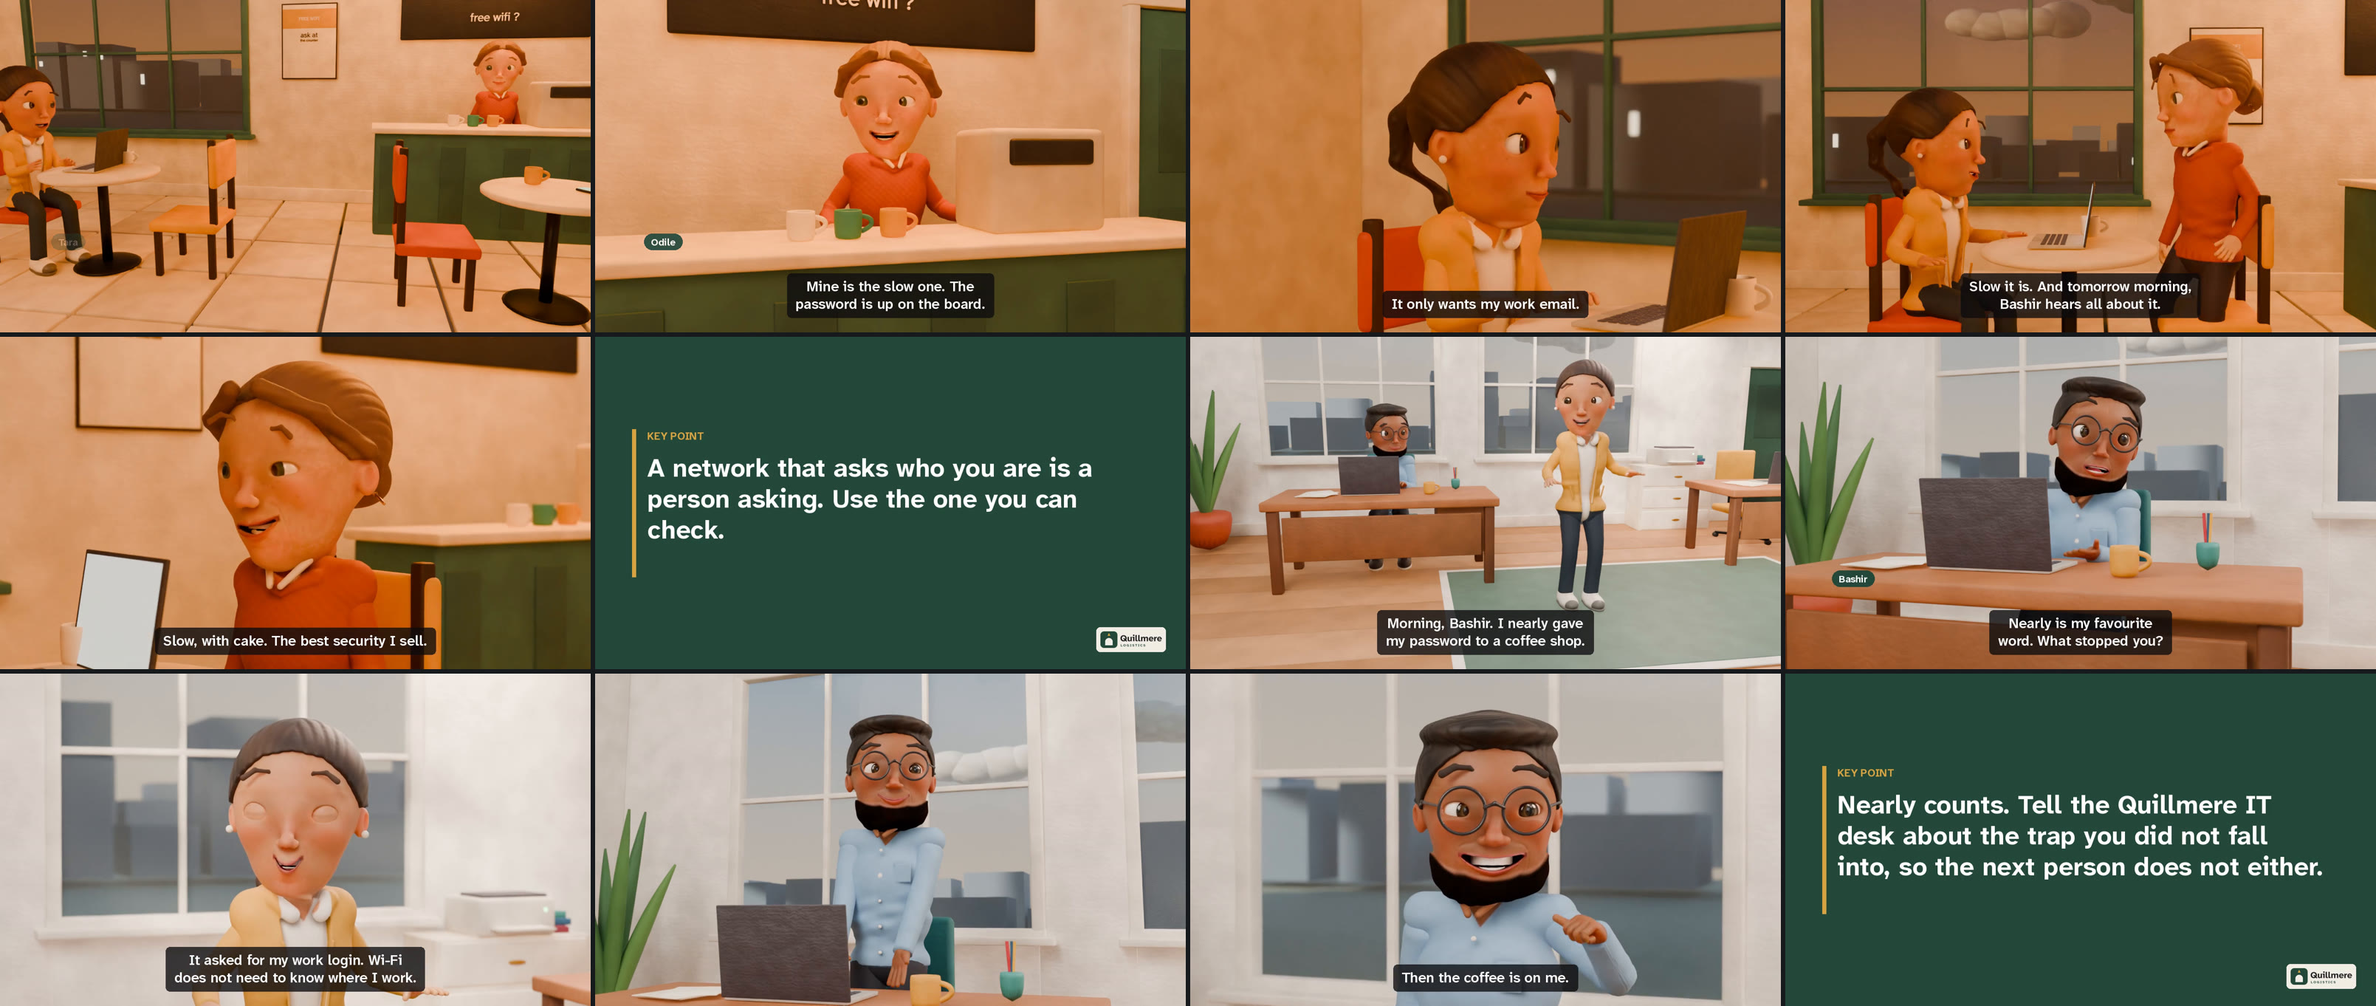
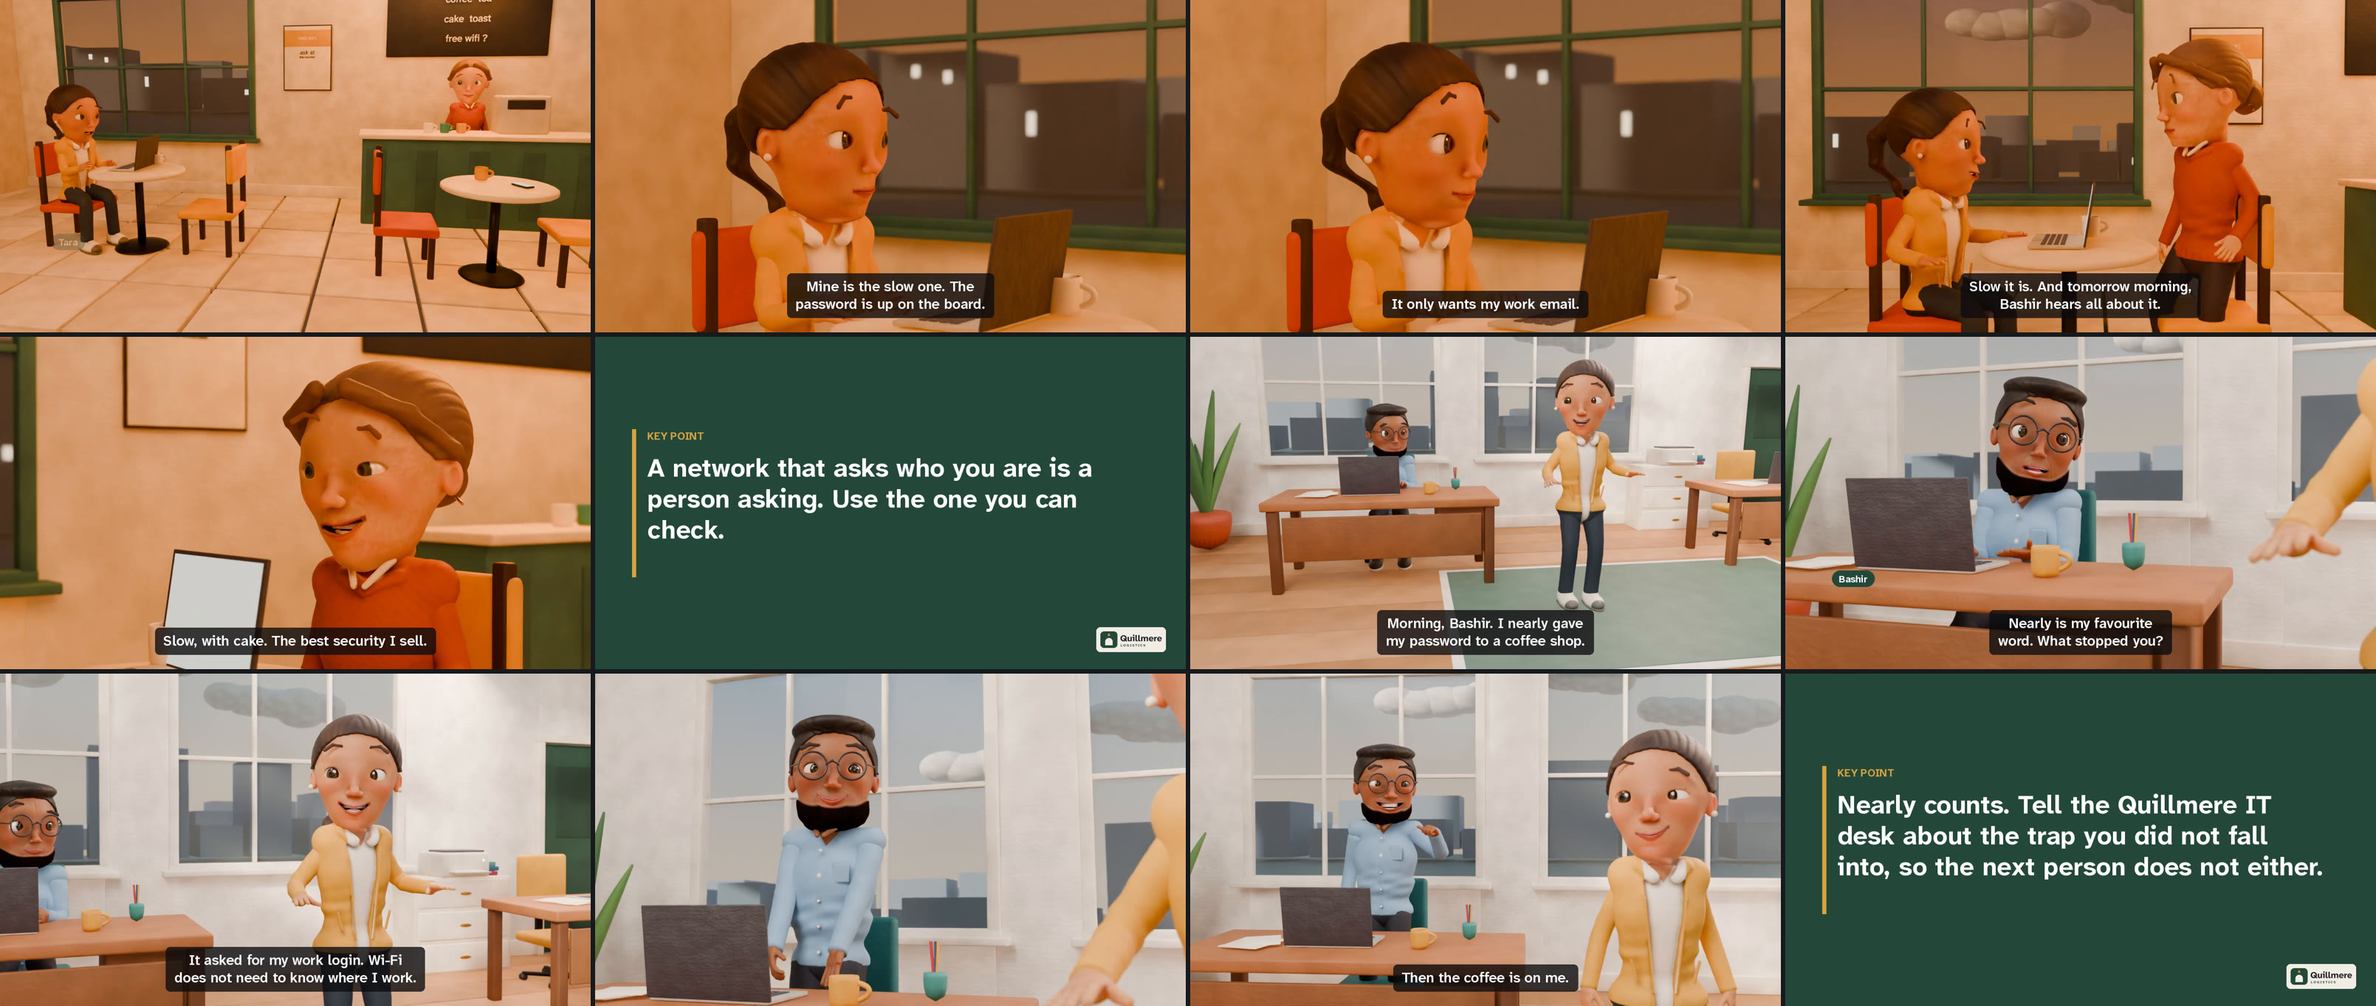
docs: the sample film as it now is, and every number measured again
The sample was filmed again with this branch's camera and editing (17 shots,
two reactions cut inside lines, lead room, the over-the-shoulder that would
have shown Tara's back filmed as a medium, a two-shot ending for scene two)
at the preview preset: 1280x720, 24 fps, 1,974 frames, 82.25 s, -16 LUFS.
Every shot from nothing took 54 min 57 s on a GTX 1660 Ti laptop; 4.7 s a
drawing on average over 666 drawings (4.3 to 5.0). New sheet and GIF from it
(one sample moment moved off a blink).

Measured again on 2026-11-11 and written in: sculpting the sample's cast (46 s),
Kokoro (26 s for 47 s of speech), draft drawings (2.2-2.6 s), the cards
renderer (starter film 90 s at preview, 2 min 41 s at final). Rows that were not
re-run are labelled with the version they were measured for. CLAY_MOTION no
longer says more samples cost little: draft to preview roughly doubles a
drawing. REQUIREMENTS gains a clay section. TESTING lists what was run this
time, including the Blender smoke test (PASS), the SIGKILL-and-resume check and
draft renders of light knobs, beats, a prop insert and a wall clock.

The README links the film as a release download (films are not kept in the
repository) and states a known fault: eyelines go wrong when someone talks to a
person standing behind them (Tara and Bashir in the office scene).

diff --git a/tools/make_showcase_media.py b/tools/make_showcase_media.py
@@ -14,7 +14,7 @@ from pathlib import Path
 
 OUT = Path("docs/media/film")
 # moments of the film worth showing, as fractions of its length
-MOMENTS = (0.085, 0.16, 0.235, 0.30, 0.375, 0.44, 0.535, 0.565, 0.63, 0.70, 0.79, 0.89)
+MOMENTS = (0.085, 0.16, 0.235, 0.30, 0.375, 0.44, 0.535, 0.565, 0.625, 0.70, 0.79, 0.89)
 LOOP = (0.335, 5.2)      # where the loop starts (fraction of the film) and how long it runs (seconds)
 
 

diff --git a/README.md b/README.md
@@ -44,12 +44,18 @@ sastudio film examples/the-fast-one --preset draft
 ```
 
 That one command voices thirteen lines, sculpts three people, builds a cafe and an office, films
-fourteen shots on twos and assembles a subtitled film in `examples/the-fast-one/build/`. No
+seventeen shots on twos and assembles a subtitled film in `examples/the-fast-one/build/`. No
 account and no API key. Edit a line and only the shots it can affect are filmed again.
 
 <p align="center">
-  <img src="docs/media/film/the-fast-one-sheet.jpg" width="100%" alt="Twelve frames from The Fast One. A cafe at dusk with the city in the window: Tara typing at a table, Odile behind the counter pointing at the menu board, close-ups of both, the two of them at the table with a mug. Then an office in morning light: a laptop in close-up that the camera pulls back from to show Bashir, bearded and in glasses, typing at his desk; Tara walking in through the door and waving; Bashir standing to make a point; a thumbs-up.">
+  <img src="docs/media/film/the-fast-one-sheet.jpg" width="100%" alt="Twelve frames from The Fast One. A cafe at dusk with the city in the window: Tara at a table with her laptop and Odile behind the counter, seen whole; Tara listening in close-up while Odile explains which Wi-Fi is hers; Tara reading out what the other network wants; the two of them at the table; Odile in close-up, smiling. A key point card. Then an office in morning light: Tara arriving at Bashir's desk; Bashir, bearded and in glasses, asking what stopped her; Tara explaining with her palms open; Bashir standing to make his point; the two of them as he offers to buy the coffee. A last key point card.">
 </p>
+
+**[Watch The Fast One](https://github.com/xIBBAx/security-awareness-studio/releases/latest/download/The_Fast_One.en-GB.mp4)** (82 seconds, 6.5 MB; attached to the release
+with its [subtitles](https://github.com/xIBBAx/security-awareness-studio/releases/latest/download/The_Fast_One.en-GB.srt)). It is exactly what the command above
+makes with `--preset preview`: 1280x720 at 24 frames a second, 1,974 frames, two scenes, seventeen
+filmed shots (two of them reactions cut into the middle of a line), thirteen Kokoro lines at -16
+LUFS. Filming every shot from nothing took 55 minutes on a laptop GeForce GTX 1660 Ti.
 
 Everything in [The Fast One](examples/the-fast-one/) comes from two scene files and one page of
 character descriptions. Nobody opened Blender, drew anything or recorded a voice.
@@ -156,14 +162,17 @@ shots are cached by content. [ARCHITECTURE.md](docs/ARCHITECTURE.md) and
 
 ## What it costs to run
 
-Measured on one laptop (Intel Core i7-10750H, 12 threads, GeForce GTX 1660 Ti with 6 GB, Blender
-5.2 under WSL2):
+Measured on one laptop on 2026-11-11 (Intel Core i7-10750H, 12 threads, GeForce GTX 1660 Ti with
+6 GB, Blender 5.2.2 under WSL2):
 
-- Sculpting a character: about 25 seconds, once per look.
-- A voice line with Kokoro: about half its own length, on the CPU.
-- Filming: 2 to 3 seconds per drawing at 960x540, so roughly half a minute of work for each second
-  of film on twos. People the camera cannot see are not drawn.
-- The cards renderer: the 14-minute starter film in about a minute as a draft.
+- Sculpting the sample's three characters: 46 seconds for all three, once per look.
+- Voicing its thirteen lines with Kokoro on the CPU: 26 seconds for 47 seconds of speech.
+- Filming at `preview` (1280x720, 12 samples): 4.7 seconds a drawing on average (4.3 to 5.0 over
+  the sample's 666 drawings), so about 2.3 minutes of work for each second of film on twos. The
+  `draft` preset (960x540, 6 samples) took 2.2 to 2.6 seconds a drawing over 247 drawings. People
+  the camera cannot see are not drawn.
+- The cards renderer: the 14-minute starter film in 90 seconds at `preview` and 2 minutes 41 seconds
+  at `final`, on the CPU.
 
 ## Honest edges
 
@@ -175,6 +184,10 @@ Measured on one laptop (Intel Core i7-10750H, 12 threads, GeForce GTX 1660 Ti wi
   music track. Rendering on a remote GPU is not built.
 - Another language is another film: you write each line's translation in the scene file and
   render once per language. Nothing translates for you.
+- Eyelines go wrong when someone talks to a person standing behind them: in the sample's office
+  scene Tara often looks away from Bashir, whose desk is behind her. Part of the cause is known (a
+  person stops turning towards someone the camera cannot see); the rest is being traced, and the
+  sample will be filmed again with the fix.
 - The `final` preset (1920x1080) has not yet been run for a whole film; the sample was built with
   `preview`. CI has no Blender, so the clay smoke test runs only where Blender is installed.
 - The starter scenes are general guidance, not policy. Replace each procedure with your own.

diff --git a/docs/TESTING.md b/docs/TESTING.md
@@ -21,23 +21,30 @@ fake transport (`tests/conftest.py`).
 
 ## Clay films: what was run, and where
 
-Clay films need Blender and a few minutes of rendering, so they are checked by hand on a real
-machine as well as by the test suite. On 2026-11-11, on an Intel Core i7-10750H with a GeForce
-GTX 1660 Ti (6 GB), Blender 5.2.2 under WSL2:
+Clay films need Blender and minutes of rendering, so they are checked on a real machine as well as
+by the test suite. On 2026-11-11, on an Intel Core i7-10750H with a GeForce GTX 1660 Ti (6 GB),
+Blender 5.2.2 under WSL2:
 
 | Check | Result |
 |---|---|
-| The test suite (jobs, timing, caching, design mapping, sculpting kit, lip sync, free voices, engine contracts) | 280 passed, 1 skipped (the opt-in paid-API test) |
+| The test suite, `pytest -o addopts='' -q`, with Blender and FFmpeg present | 318 passed, 1 skipped (the opt-in paid-API test) |
+| `tests/test_clay_smoke.py` with Blender present: sculpt two characters, film two drawings of a sample shot, check they are not blank, film again and see it reused | PASS, 41 s |
+| The suite with FFmpeg and Blender hidden from `PATH` | PASS: the FFmpeg and Blender tests skip with a reason, none fails |
 | CI: lint, tests, package build and a render from the wheel, Ubuntu and Windows, Python 3.11 to 3.13 | PASS |
-| Wheel contains every engine script; installed into a fresh Python 3.12 environment with the `clay` extra | PASS: `init`, `validate`, `direct`, sculpting a character (19 s) |
-| Filming a shot from that fresh installation (`sastudio motion`, 80 drawings, 960x540) | PASS: valid H.264, 159 frames |
-| The sample film end to end with `sastudio film --preset draft`: 13 Kokoro lines, 3 sculpts, 14 shots, assembly | PASS: 82.25 s, 1,974 frames, -16.0 LUFS, subtitles and manifest written |
-| Every set as an establishing shot; six described characters with every new garment and hair style | rendered and looked at |
-| An imported rigged glTF model as a character: fitted, grounded, portrait rendered | PASS |
+| The sample film at `preview`, every shot filmed from nothing (17 shots, 666 drawings) | PASS: 82.25 s, 1,974 frames, -16.0 LUFS, 54 min 57 s; frames looked at shot by shot |
+| The same film after a change to its last shot | 16 shots reused by content, 1 filmed, 3 min 17 s |
+| `sastudio` killed with SIGKILL while Blender was at drawing 14 of 21 of a new shot | PASS: no Blender left running; the next run said "21 drawings (14 already done)" and finished the shot |
+| A shot renumbered by an edit to the plan | PASS: reused from its old folder ("filmed as ..."); a half-filmed one carried on ("28 already done") |
+| Framing fixes, on drafts and in the sample | the cafe wide keeps the speaker inside the frame; an over-the-shoulder that would show the speaker's back is filmed as a two-shot or a medium; close-ups and reactions leave room in front of the face |
+| Cutting inside a line, in the sample | the cut to the listener lands where the speaker's mouth rests; the speaker's name tag leaves before the cut |
+| `direction.light`, a line's `beats`, an `insert` on a prop and `direction.clock`, each filmed at `draft` in a copy of the sample | looked at: the tuned close-up is lit from a low warm key on the other side; the nod and the worried face land at 40 % and 75 % of the line; the insert films the cafe's sign; the home office clock reads 07:05 |
+| Every set as an establishing shot; six described characters with every new garment and hair style | rendered and looked at (earlier session) |
+| An imported rigged glTF model as a character: fitted, grounded, portrait rendered | PASS (earlier session) |
 | Blender for Windows from WSL2 (OptiX) on the same job | UNVERIFIED: recorded as passing for an eight-drawing shot, but a later operator log contradicts it; re-run before relying on it |
 
 Not run: a clay film on native Windows or macOS; the `final` (1920x1080) preset for a whole film;
-Hindi dialogue in a clay film judged by a native listener.
+Hindi dialogue in a clay film judged by a native listener. Known wrong: eyelines when the person
+someone talks to stands behind them (see the README's honest edges).
 
 ## Edge cases
 

diff --git a/docs/REQUIREMENTS.md b/docs/REQUIREMENTS.md
@@ -11,19 +11,37 @@
 
 Measured on one machine in November 2026: Intel Core i7-10750H (6 cores, 12 threads), 7.7 GB of
 memory available to WSL2, Ubuntu 24.04, FFmpeg 6.1.1, Python 3.13. The film is the 12-scene starter
-project (14 min 23 s) with silent placeholder voices. These are examples, not promises; your
+project (14 min 19 s) with silent placeholder voices, re-measured on 2026-11-11 except where a row
+says otherwise. These are examples, not promises; your
 hardware will differ.
 
 | Job | Wall clock | Peak memory | Output |
 |---|---|---|---|
-| Whole film, `preview` 1280 x 720, `--jobs 4` | 74 s | 237 MB | 19.5 MB MP4 |
-| Whole film, `final` 1920 x 1080, `--jobs 3` | 2 min 22 s | 615 MB | 50.6 MB MP4 |
+| Whole film, `preview` 1280 x 720, `--jobs 4` | 90 s | 244 MB | |
+| Whole film, `final` 1920 x 1080, `--jobs 3` | 2 min 41 s | 621 MB | 52.1 MB MP4 |
 | Same render again, nothing changed | every scene reused | | |
-| Three-scene example, `draft` 960 x 540, English | 14 s | 126 MB | 4 min 21 s of film |
-| Same example, Hindi | 21 s | 128 MB | 5 min 12 s of film |
+| Three-scene example, `draft` 960 x 540, English (0.1.0, not re-run) | 14 s | 126 MB | 4 min 21 s of film |
+| Same example, Hindi (0.1.0, not re-run) | 21 s | 128 MB | 5 min 12 s of film |
 
 Real voices change a film's length, and therefore its render time, because placeholder timing is
 only an estimate of speech.
+
+## Clay films
+
+Blender 4.2 or newer, the `clay` extra (numpy, scipy, scikit-image) and, for free voices, the
+`voices` extra and the Kokoro model (350 MB, once). A GPU is not required but makes filming many
+times faster. Measured on the same laptop with a GeForce GTX 1660 Ti (6 GB), on 2026-11-11:
+
+| Job | Wall clock | Peak memory |
+|---|---|---|
+| Sculpt the sample's three characters | 46 s | 0.9 GB |
+| Voice its 13 lines with Kokoro (47 s of speech) | 26 s | 0.6 GB |
+| Film and assemble the 82-second sample at `preview`, every shot from nothing | 54 min 57 s | 1.95 GB |
+| The same when only its last shot changed (16 reused, 1 filmed) | 3 min 17 s | 1.8 GB |
+
+Filming runs one Blender at a time. Leave about 2 GB of memory for it, and about 1 GB of disk for
+the sample's filmed shots in `.studio/cache/clay` (`sastudio clean --shots` lists the ones nothing
+uses any more).
 
 ## How sastudio uses your hardware
 

diff --git a/docs/CLAY_MOTION.md b/docs/CLAY_MOTION.md
@@ -123,19 +123,22 @@ state for the model is recorded in the project.
 
 ## Measured
 
-On an Intel Core i7-10750H with a GeForce GTX 1660 Ti (6 GB), Blender 5.2.2 under WSL2 with CUDA:
+On 2026-11-11, on an Intel Core i7-10750H (12 threads) with a GeForce GTX 1660 Ti (6 GB), Blender
+5.2.2 under WSL2 with CUDA:
 
 | | |
 |---|---|
-| Sculpting one character | about 25 s (two worker processes) |
-| A drawing at 960x540, 6 samples, three people in an office | 2.0 s |
-| A drawing at 960x540, over-the-shoulder with depth of field | 2.6 s |
-| Of which posing the puppets | about 0.1 s |
-| Kokoro voice | 0.55 x the length of the line, about 600 MB of memory |
+| Sculpting the sample's three characters from nothing | 46 s in all, 0.9 GB at most |
+| A drawing at `draft` (960x540, 6 samples) | 2.2 to 2.6 s (247 drawings, four shots) |
+| A drawing at `preview` (1280x720, 12 samples) | 4.3 to 5.0 s, 4.7 s on average (666 drawings, 17 shots) |
+| The whole sample film at `preview`, every shot filmed from nothing | 54 min 57 s, 1.95 GB at most |
+| Kokoro voice | 26 s for the sample's 47 s of speech, model loading included; 0.6 GB |
+| Posing the puppets, per drawing | not re-measured (an earlier note said about 0.1 s) |
 
-Nearly all of a drawing's time is Cycles refitting the puppets' geometry, not sampling: more
-samples cost little, more people in frame cost more. Environment variables:
-`SASTUDIO_BLENDER` (which Blender), `SASTUDIO_CLAY_DEVICE` (`GPU` or `CPU`).
+Going from `draft` to `preview` (1.8 times the pixels, twice the samples) roughly doubles the time a
+drawing takes; more people in frame cost more. Environment variables: `SASTUDIO_BLENDER` (which
+Blender), `SASTUDIO_CLAY_DEVICE` (`GPU` or `CPU`), `SASTUDIO_CLAY_STALL_MINUTES` (how long Blender
+may draw nothing before it is stopped, default 20) and `SASTUDIO_CLAY_RETRIES` (default 1).
 
 ## Not built yet
 

diff --git a/examples/the-fast-one/README.md b/examples/the-fast-one/README.md
@@ -1,7 +1,8 @@
 # The Fast One
 
 A two-scene clay stop-motion short: a cafe at dusk where one Wi-Fi network is a little too keen,
-and an office the next morning where somebody collects near-misses. About seventy seconds.
+and an office the next morning where somebody collects near-misses. 82 seconds with its opening
+and closing cards (the two scenes run 34 and 37 seconds).
 
 Everything here is invented (Quillmere Logistics, the cafe, Tara, Odile and Bashir), and
 everything on screen is made by the commands below from the three text files in this folder.
@@ -28,7 +29,8 @@ on purpose; add `--allow-placeholder-contacts` for a demonstration.
 | `transition_in: fade_from_black` | the film fades up on the cafe, with the title over the shot |
 | `transition_in: follow_object`, `object: laptop` | scene two opens close on a laptop and pulls back to find Bashir at his desk |
 | `act: [walk_in, wave]` | Tara comes in through the door, which opens for her, and arrives on her line |
-| `act: [stand_up, nod]`, `[check_phone]`, `[thumbs_up]` | he stands to make the point; she reads it off her phone; the last shot pushes in |
+| `act: [stand_up, nod]`, `[check_phone]`, `[thumbs_up]` | he stands to make the point; she reads it off her phone; his thumbs-up lands on both of them |
+| nothing: the planner decides | a long line cuts to the listener between two words; each face has room to look into; scene one ends pushing in, scene two on a two-shot, because no two scenes end alike |
 | `emotion:` and `reactions:` | faces change on the line, and the listener's changes too |
 | `voice: { provider: kokoro, ... }` | three free neural voices; mouths follow their sounds |
 

diff --git a/ASSET_LICENSES.md b/ASSET_LICENSES.md
@@ -34,6 +34,7 @@ Made by Ibrahim Sultan for this project, and shared under the same MIT License a
 | Project logo (flat) | `docs/media/brand/*.svg`, `logo-for-*.png`, `mark-512.png` | Drawn with code (`tools/make_brand.py`; the SVG marks follow the clay mark) |
 | Clay engine: sculptor, puppet, rigs, acting, sets, props, light | `src/sastudio/engine/` | The author's own code: the sculpting and rigging core comes from his earlier production work, the rest was written for this repository (see [Code](#code)); every form is generated, nothing is loaded from a model, texture or photograph |
 | Sample film "The Fast One" (project, characters, script) | `examples/the-fast-one/` | Written for this project; all people and places are invented |
+| The sample film itself, with its subtitles (release downloads, not in the repository) | `The_Fast_One.en-GB.mp4`, `.srt` on the GitHub release | Made by `sastudio film examples/the-fast-one --preset preview` from this repository; the voices are Kokoro's |
 | Frames and loop of the sample film; the eight sets; the character line-up | `docs/media/film/the-fast-one*.{jpg,gif}`, `docs/media/film/sets.jpg`, `docs/media/characters/clay-lineup.jpg`, `docs/media/characters/clay-proof.jpg` | Rendered by `sastudio film` and the engine from this repository (`tools/make_showcase_media.py`); the voices in the film are Kokoro's |
 | Fictional Quillmere Logistics logo (example only) | `examples/quillmere/assets/logo.png` | Drawn with code by `tools/make_example_assets.py` |
 | Example project | `examples/quillmere/` | Written for this project; its scenes are copies of starter scenes with one line changed |

diff --git a/docs/RENDERING.md b/docs/RENDERING.md
@@ -144,14 +144,15 @@ Scenes render in parallel. `--jobs` sets how many at once (default: half your CP
 limit: lower `--jobs` if your computer starts swapping.
 
 Measured on one machine (Intel Core i7-10750H, 12 threads, 7.7 GB available to WSL2, FFmpeg 6.1.1),
-rendering the 12-scene starter film (14 min 23 s, silent placeholder voices). Examples, not promises:
+rendering the 12-scene starter film (14 min 19 s, silent placeholder voices), re-measured on
+2026-11-11. Examples, not promises:
 
 | Job | Wall clock | Peak memory |
 |---|---|---|
-| Whole starter film, `preview` (1280 x 720), `--jobs 4` | 74 s | 237 MB |
-| Whole starter film, `final` (1920 x 1080), `--jobs 3` | 2 min 22 s | 615 MB |
+| Whole starter film, `preview` (1280 x 720), `--jobs 4` | 90 s | 244 MB |
+| Whole starter film, `final` (1920 x 1080), `--jobs 3` | 2 min 41 s | 621 MB |
 | Re-running the same render with nothing changed | every scene reused | |
-| Three-scene example, `draft`, English / Hindi | 14 s / 21 s | 126 MB / 128 MB |
+| Three-scene example, `draft`, English / Hindi (measured for 0.1.0, not re-run) | 14 s / 21 s | 126 MB / 128 MB |
 
 The cards renderer draws with Pillow and encodes with FFmpeg's x264 on the CPU. A GPU does not
 speed it up.
